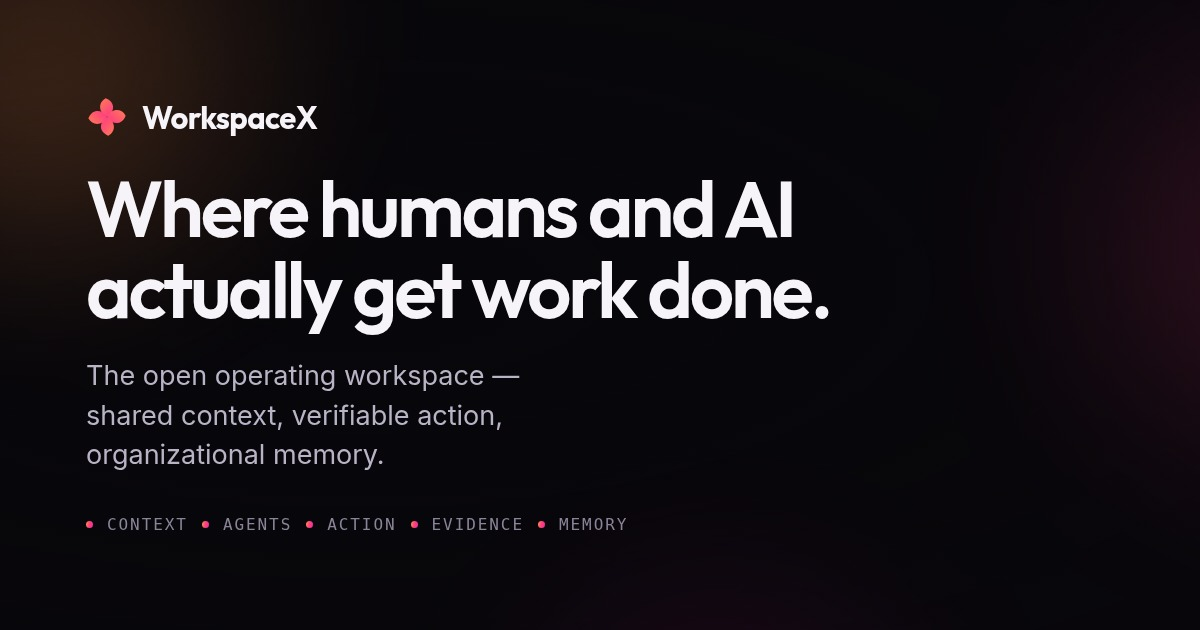
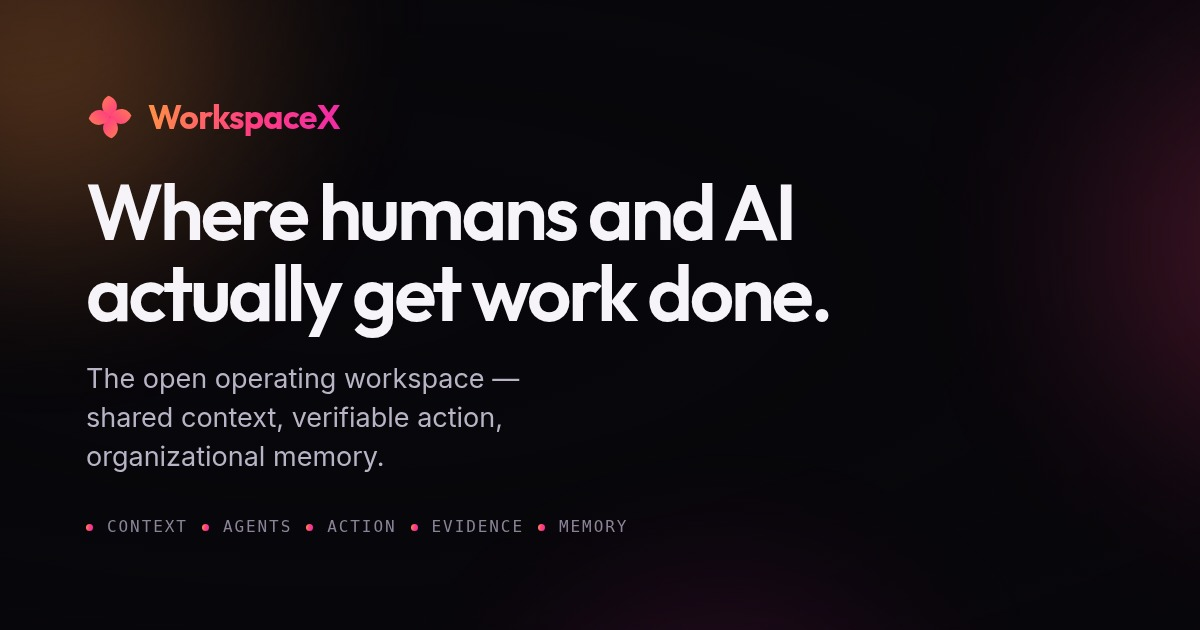
fix(home): round 28 — the Chinese page, measured for the first time
The performance budget had one goto, against '/'. For twenty-seven
rounds it watched half the site. /zh/ is a separately generated document
with different text, a different LCP element and a different shaping
cost, and the moment it was measured it turned out to be 772ms slower on
slow 3G and 140ms slower on desktop.

content-visibility: auto on the sections is a real win — Chinese desktop
LCP 380 -> 244ms, slow 3G 2652 -> 2116. It is reverted. The degradation
gate rejected it and the gate was right: without JavaScript only 517 of
900+ words were extractable, and 21 elements stayed invisible when a
module failed, because a section that never renders never reveals. The
measurement is written into the stylesheet so the next person stops in
the same place.

The copy gate read two named files. 496 Han characters lived elsewhere —
the 404 page, the social card, lang.js, and the META block holding every
Chinese title and meta description. It discovers its inputs now, 350 ->
387 values. Its own rule needed Han on BOTH sides of the punctuation, so
a trailing half-width comma passed; found by writing a probe that failed
to fail.

Also:
- six discipline tabs wrapped into a ragged last row, because
  flex: 1 1 auto stretches it. Now an even 2x3 grid.
- the social card's scrim rendered it near-black — the one image of this
  brand anybody shares, showing none of it.
- the card's wordmark was white while the nav's had become a gradient: a
[…]

diff --git a/apps/home/scripts/og-card.html b/apps/home/scripts/og-card.html
@@ -22,16 +22,28 @@
         background: radial-gradient(circle, rgb(var(--c-2-rgb) / .58), transparent 64%); }
   .b3 { position: absolute; width: 560px; height: 560px; border-radius: 50%; left: 42%; bottom: -26%;
         background: radial-gradient(circle, rgb(var(--c-3-rgb) / .55), transparent 64%); }
-  /* Just enough scrim to hold the type; the first pass at .82 erased the
-     aurora entirely and left a flat black card. */
+  /* Just enough scrim to hold the type. The first pass at .82 erased the
+     aurora entirely; .28/.72 still left a near-black card, which is a poor
+     showing for the one image of this brand that anybody ever shares. The
+     headline is white on a dark field either way — the scrim only has to
+     stop the brightest part of the glow reaching the type. */
   .card::after { content:""; position:absolute; inset:0; z-index:-1;
-    background: radial-gradient(120% 90% at 30% 45%, rgba(8,7,11,.28), rgba(8,7,11,.72) 78%); }
+    background: radial-gradient(120% 90% at 28% 46%, rgba(8,7,11,.06), rgba(8,7,11,.52) 76%); }
 
   .brand { display: flex; align-items: center; gap: 14px; }
-  .brand svg { width: 42px; height: 42px; }
-  .brand b { font-family: var(--font-display); font-size: 31px; font-weight: 700; letter-spacing: -.02em; }
+  .brand svg { width: 48px; height: 48px; }
+  /* The nav's wordmark carries the gradient; a card that does not is a second
+     version of the logo, which is the thing the brand source exists to stop. */
+  .brand b { font-family: var(--font-display); font-size: 34px; font-weight: 700; letter-spacing: -.02em;
+             background: var(--grad); -webkit-background-clip: text; background-clip: text;
+             -webkit-text-fill-color: transparent; }
   h1 { font-size: 78px; line-height: 1.04; letter-spacing: -.042em; max-width: 17ch; }
   p { font-size: 27px; color: var(--fg-soft); max-width: 30ch; line-height: 1.45; }
+  /* `ch` is the width of a "0", so 17ch of Han is far narrower than 17 Han
+     characters — the Chinese card was using the left 45% of the frame and
+     leaving the rest empty. */
+  html[lang^="zh"] h1 { max-width: 13em; line-height: 1.18; }
+  html[lang^="zh"] p  { max-width: 20em; line-height: 1.7; }
   .chain { display: flex; align-items: center; gap: 14px; margin-top: 12px; }
   .chain span { font-family: var(--font-mono); font-size: 16px; letter-spacing: .12em;
                 text-transform: uppercase; color: var(--fg-dim); }

diff --git a/apps/home/assets/css/layout.css b/apps/home/assets/css/layout.css
@@ -269,6 +269,17 @@ a.brand__tag:hover { background: rgb(var(--c-2-rgb) / 0.18); border-color: rgb(v
   border-top: 1px solid var(--hairline);
   background: var(--bg-sink);
 }
+/* NOT content-visibility: auto on the sections.
+   Measured, it is a real win — the Chinese desktop LCP fell from 380 ms to
+   244 ms and its slow-3G paint from 2652 ms to 2116 ms, which is where the
+   cost of laying out a 20 000 px document actually lands. It was reverted
+   because the degradation gate rejected it, and the gate was right: without
+   JavaScript only 517 of 900+ words were extractable, and 21 elements stayed
+   invisible when a module failed, because a section that is not rendered
+   never reveals. This page's fail-visible guarantee is worth more than 80 ms
+   of a paint that is already 240 ms against a 900 ms budget.
+   Written down so the next person measures the same win and stops here. */
+
 .footer__grid {
   display: grid;
   /* The rem MINIMUMS are what break under a text-size preference: 14rem and

diff --git a/apps/home/assets/css/sections.css b/apps/home/assets/css/sections.css
@@ -568,11 +568,17 @@
 
 @media (max-width: 53.75rem) {
   .cases { grid-template-columns: minmax(0, 1fr); }
+  /* A wrapping flex row with `flex: 1 1 auto` stretches the LAST row's items
+     to fill it, so six tabs came out as four then two double-width ones —
+     ragged in English and worse in Chinese, where the labels are short enough
+     that the second row looked like a different control. A grid gives six
+     equal cells in three tidy rows. */
   .cases__tabs {
-    flex-direction: row; flex-wrap: wrap; gap: var(--s-1);
+    display: grid; grid-template-columns: repeat(2, minmax(0, 1fr));
+    gap: var(--s-1);
     border-right: 0; border-bottom: 1px solid var(--hairline);
   }
-  .cases__tab { flex: 1 1 auto; text-align: center; }
+  .cases__tab { text-align: center; }
   .cases__tab[aria-selected="true"]::before { inset: auto 0.6rem 0 0.6rem; width: auto; height: 2px; top: auto; }
   .cases__panels { padding: clamp(1.25rem, 2.5vw, 2rem); }
 }

diff --git a/apps/home/assets/css/site.css b/apps/home/assets/css/site.css
@@ -503,6 +503,7 @@ a.brand__tag:hover { background: rgb(var(--c-2-rgb) / 0.18); border-color: rgb(v
   border-top: 1px solid var(--hairline);
   background: var(--bg-sink);
 }
+
 .footer__grid {
   display: grid;
 
@@ -1374,11 +1375,13 @@ a.brand__tag:hover { background: rgb(var(--c-2-rgb) / 0.18); border-color: rgb(v
 
 @media (max-width: 53.75rem) {
   .cases { grid-template-columns: minmax(0, 1fr); }
+
   .cases__tabs {
-    flex-direction: row; flex-wrap: wrap; gap: var(--s-1);
+    display: grid; grid-template-columns: repeat(2, minmax(0, 1fr));
+    gap: var(--s-1);
     border-right: 0; border-bottom: 1px solid var(--hairline);
   }
-  .cases__tab { flex: 1 1 auto; text-align: center; }
+  .cases__tab { text-align: center; }
   .cases__tab[aria-selected="true"]::before { inset: auto 0.6rem 0 0.6rem; width: auto; height: 2px; top: auto; }
   .cases__panels { padding: clamp(1.25rem, 2.5vw, 2rem); }
 }

diff --git a/apps/home/docs/REVIEW-LOG.md b/apps/home/docs/REVIEW-LOG.md
@@ -787,3 +787,18 @@ text and is bounded by nothing.
 so there is nothing to scroll and the value is always 0. That assertion passed
 for twenty-six rounds without ever being capable of failing. It now measures
 what actually matters: whether any element sits past the right edge.
+
+### Round 28 — the Chinese page, measured for the first time
+
+| # | Gap | Fix |
+|---|-----|-----|
+| 1 | **The performance budget measured the English page only** — one `goto`, for twenty-seven rounds. `/zh/` is a separately generated document with different text, a different LCP element and different shaping cost. | Parameterized over both. |
+| 2 | Measured immediately: the Chinese page is **772 ms slower on slow 3G** (2652 vs 1880) and 140 ms slower on desktop. Inside budget, and invisible until something looked. | Recorded as a number rather than a feeling. |
+| 3 | `content-visibility: auto` on the sections is a **real** win — Chinese desktop LCP 380→244 ms, slow-3G 2652→2116. | **Reverted.** The degradation gate rejected it and was right: without JavaScript only 517 of 900+ words were extractable, and 21 elements stayed invisible when a module failed, because a section that never renders never reveals. The measurement is written into the stylesheet so the next person stops in the same place. |
+| 4 | The revert cut to the wrong `.footer__grid` and left the rule live **inside a media query**. | Caught only because the suite kept failing after a "revert" — which is the argument for running it again rather than trusting the edit. |
+| 5 | Six discipline tabs in a wrapping flex row with `flex: 1 1 auto`: the last row stretches to fill, so they came out four-then-two-double-width. Ragged in English, worse in Chinese where the short labels made the second row read as a different control. | A 2×3 grid. |
+| 6 | The copy gate read **two named files**. 496 Han characters lived elsewhere — the 404 page, the social card, `lang.js`, and the `META` block holding every Chinese `<title>` and meta description, which is the first Chinese a searcher ever sees. | It discovers its inputs. 350 → 387 values, proved red on two of the newly covered files. |
+| 7 | Its rule needed Han on **both** sides of the punctuation, so a trailing half-width comma closing a Chinese clause went straight through. | Found by writing a probe that failed to fail; the rule now covers the clause-final case too. |
+| 8 | The social card's scrim rendered it **near-black**. It is the one image of this brand anybody ever shares, and it showed none of the brand. | Scrim from `.28/.72` to `.06/.52`. |
+| 9 | The card's wordmark was plain white while the nav's had become a gradient — a second version of the logo, which is exactly what the brand source exists to prevent. | Same treatment on both. |
+| 10 | `ch` is the width of a `0`, so `max-width: 17ch` is far narrower for Han than seventeen Han characters: the Chinese card used the **left 45%** of the frame and left the rest empty. | An `em`-based measure for `html[lang^="zh"]`. |
